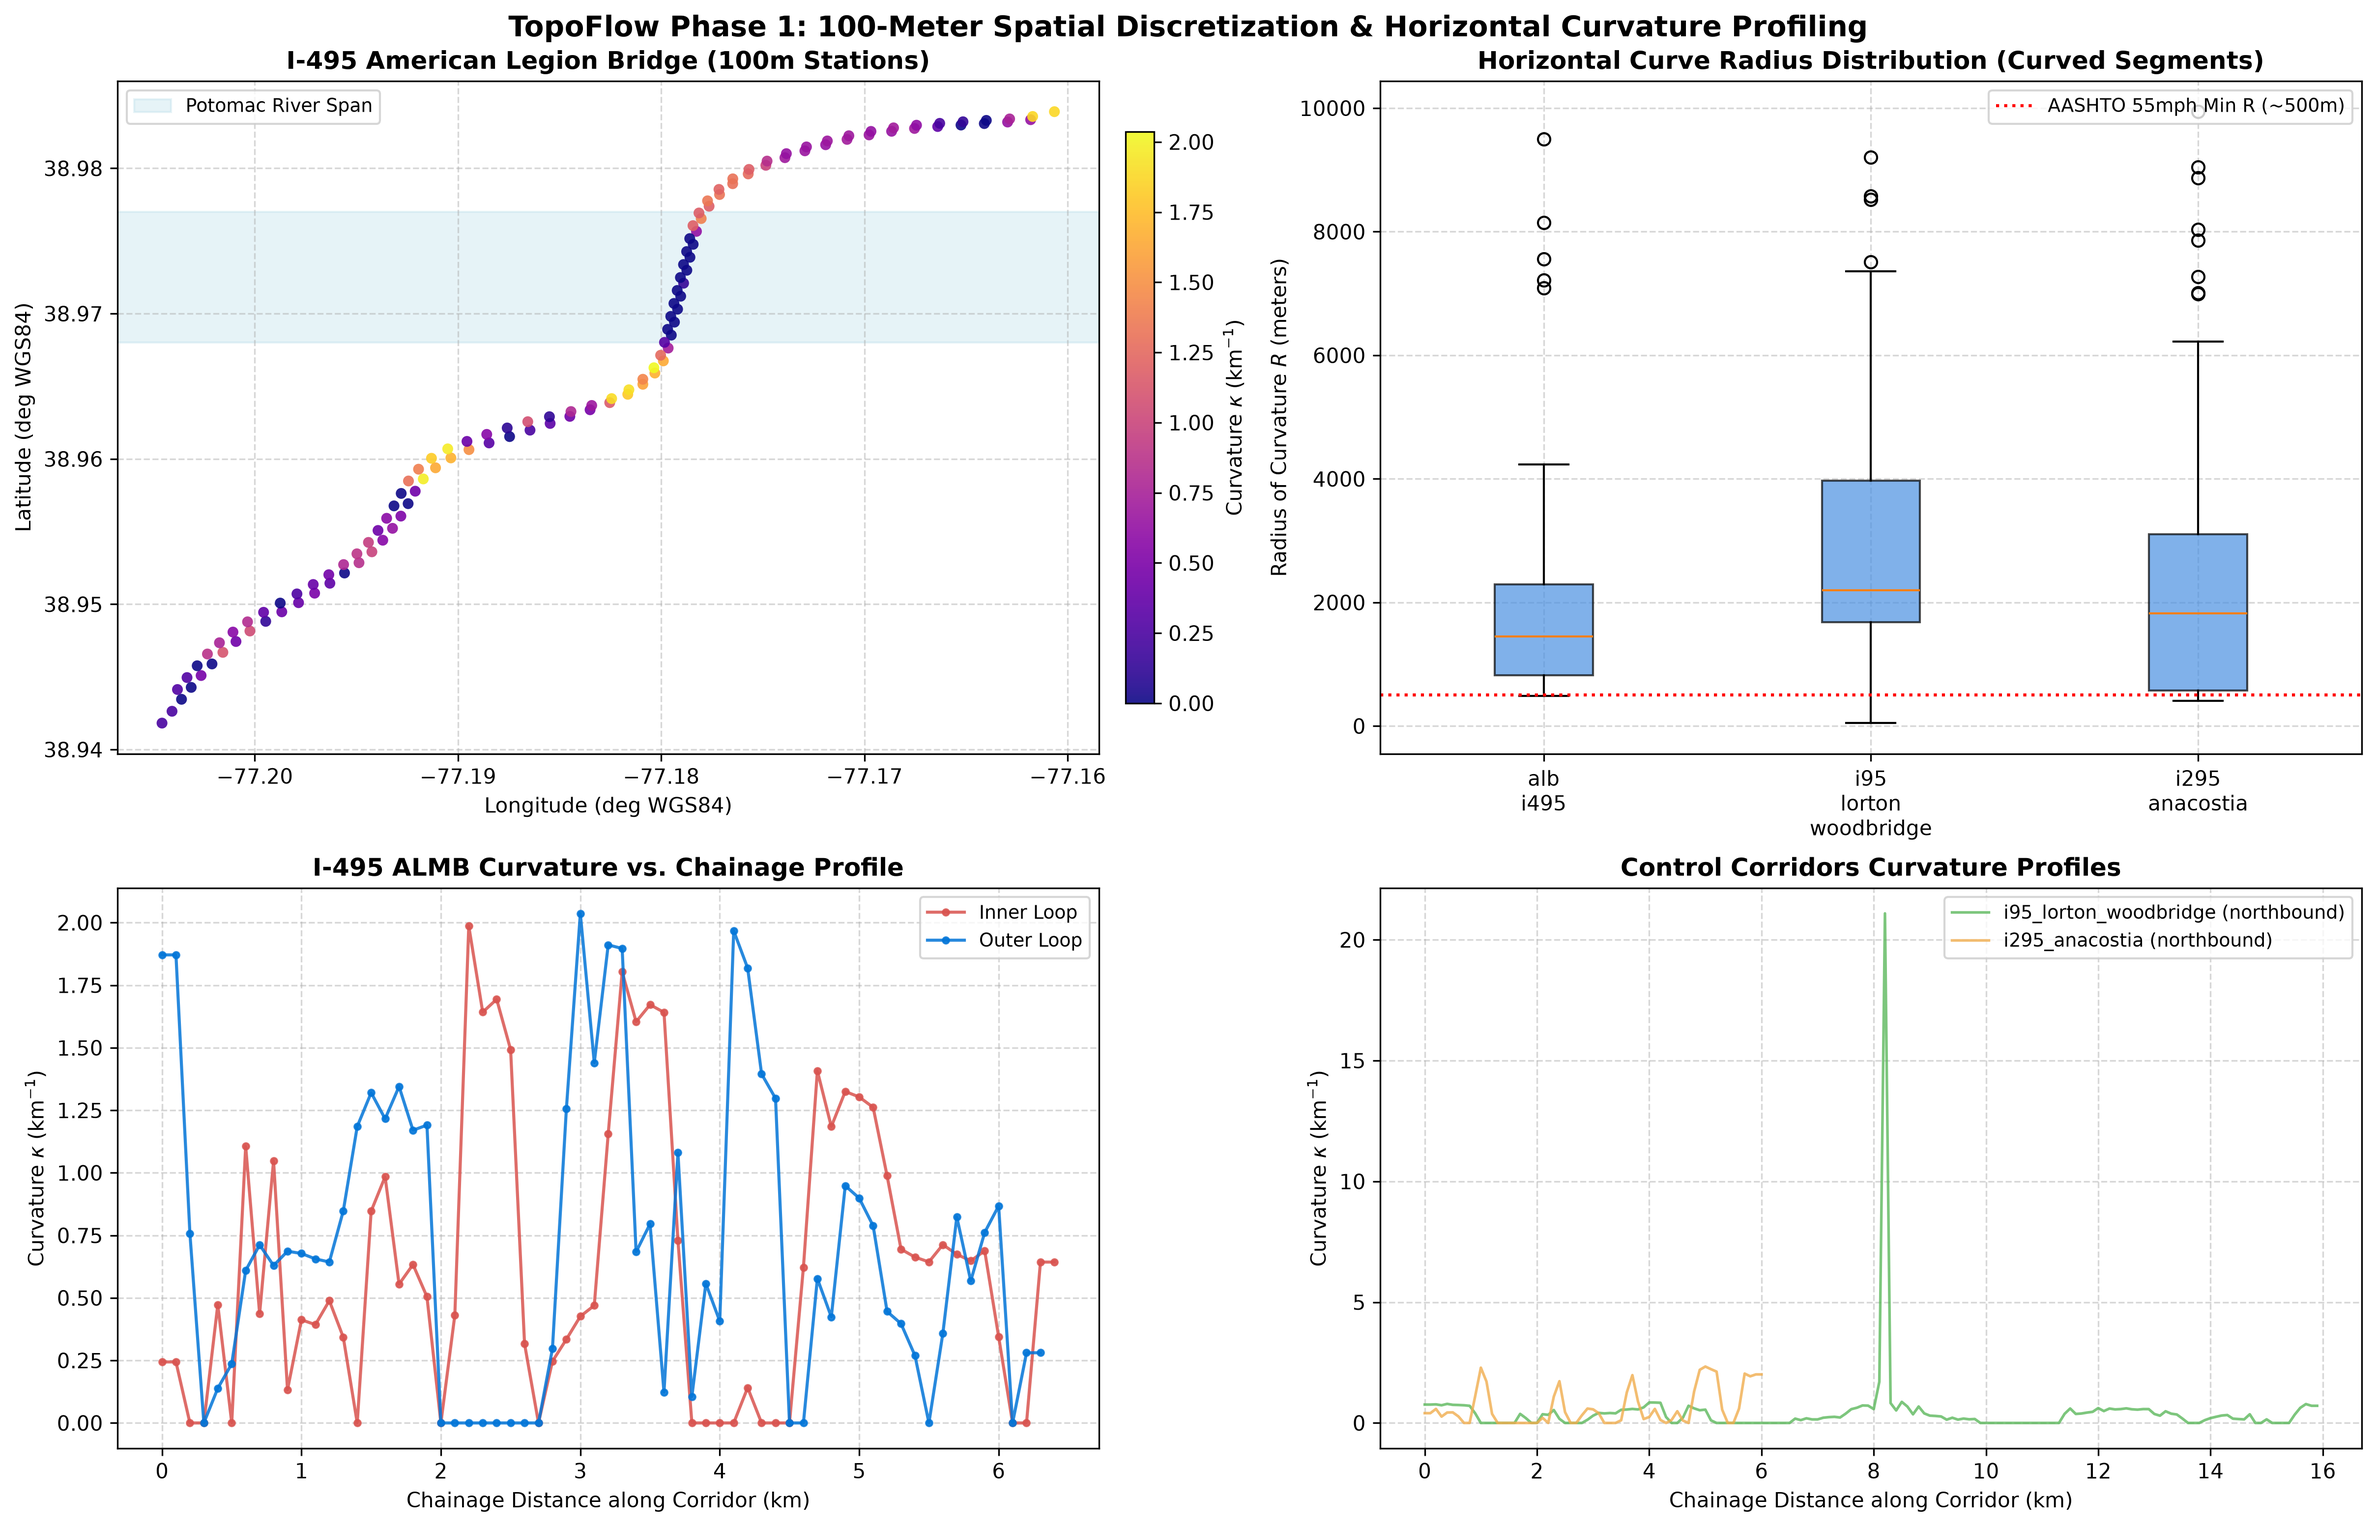
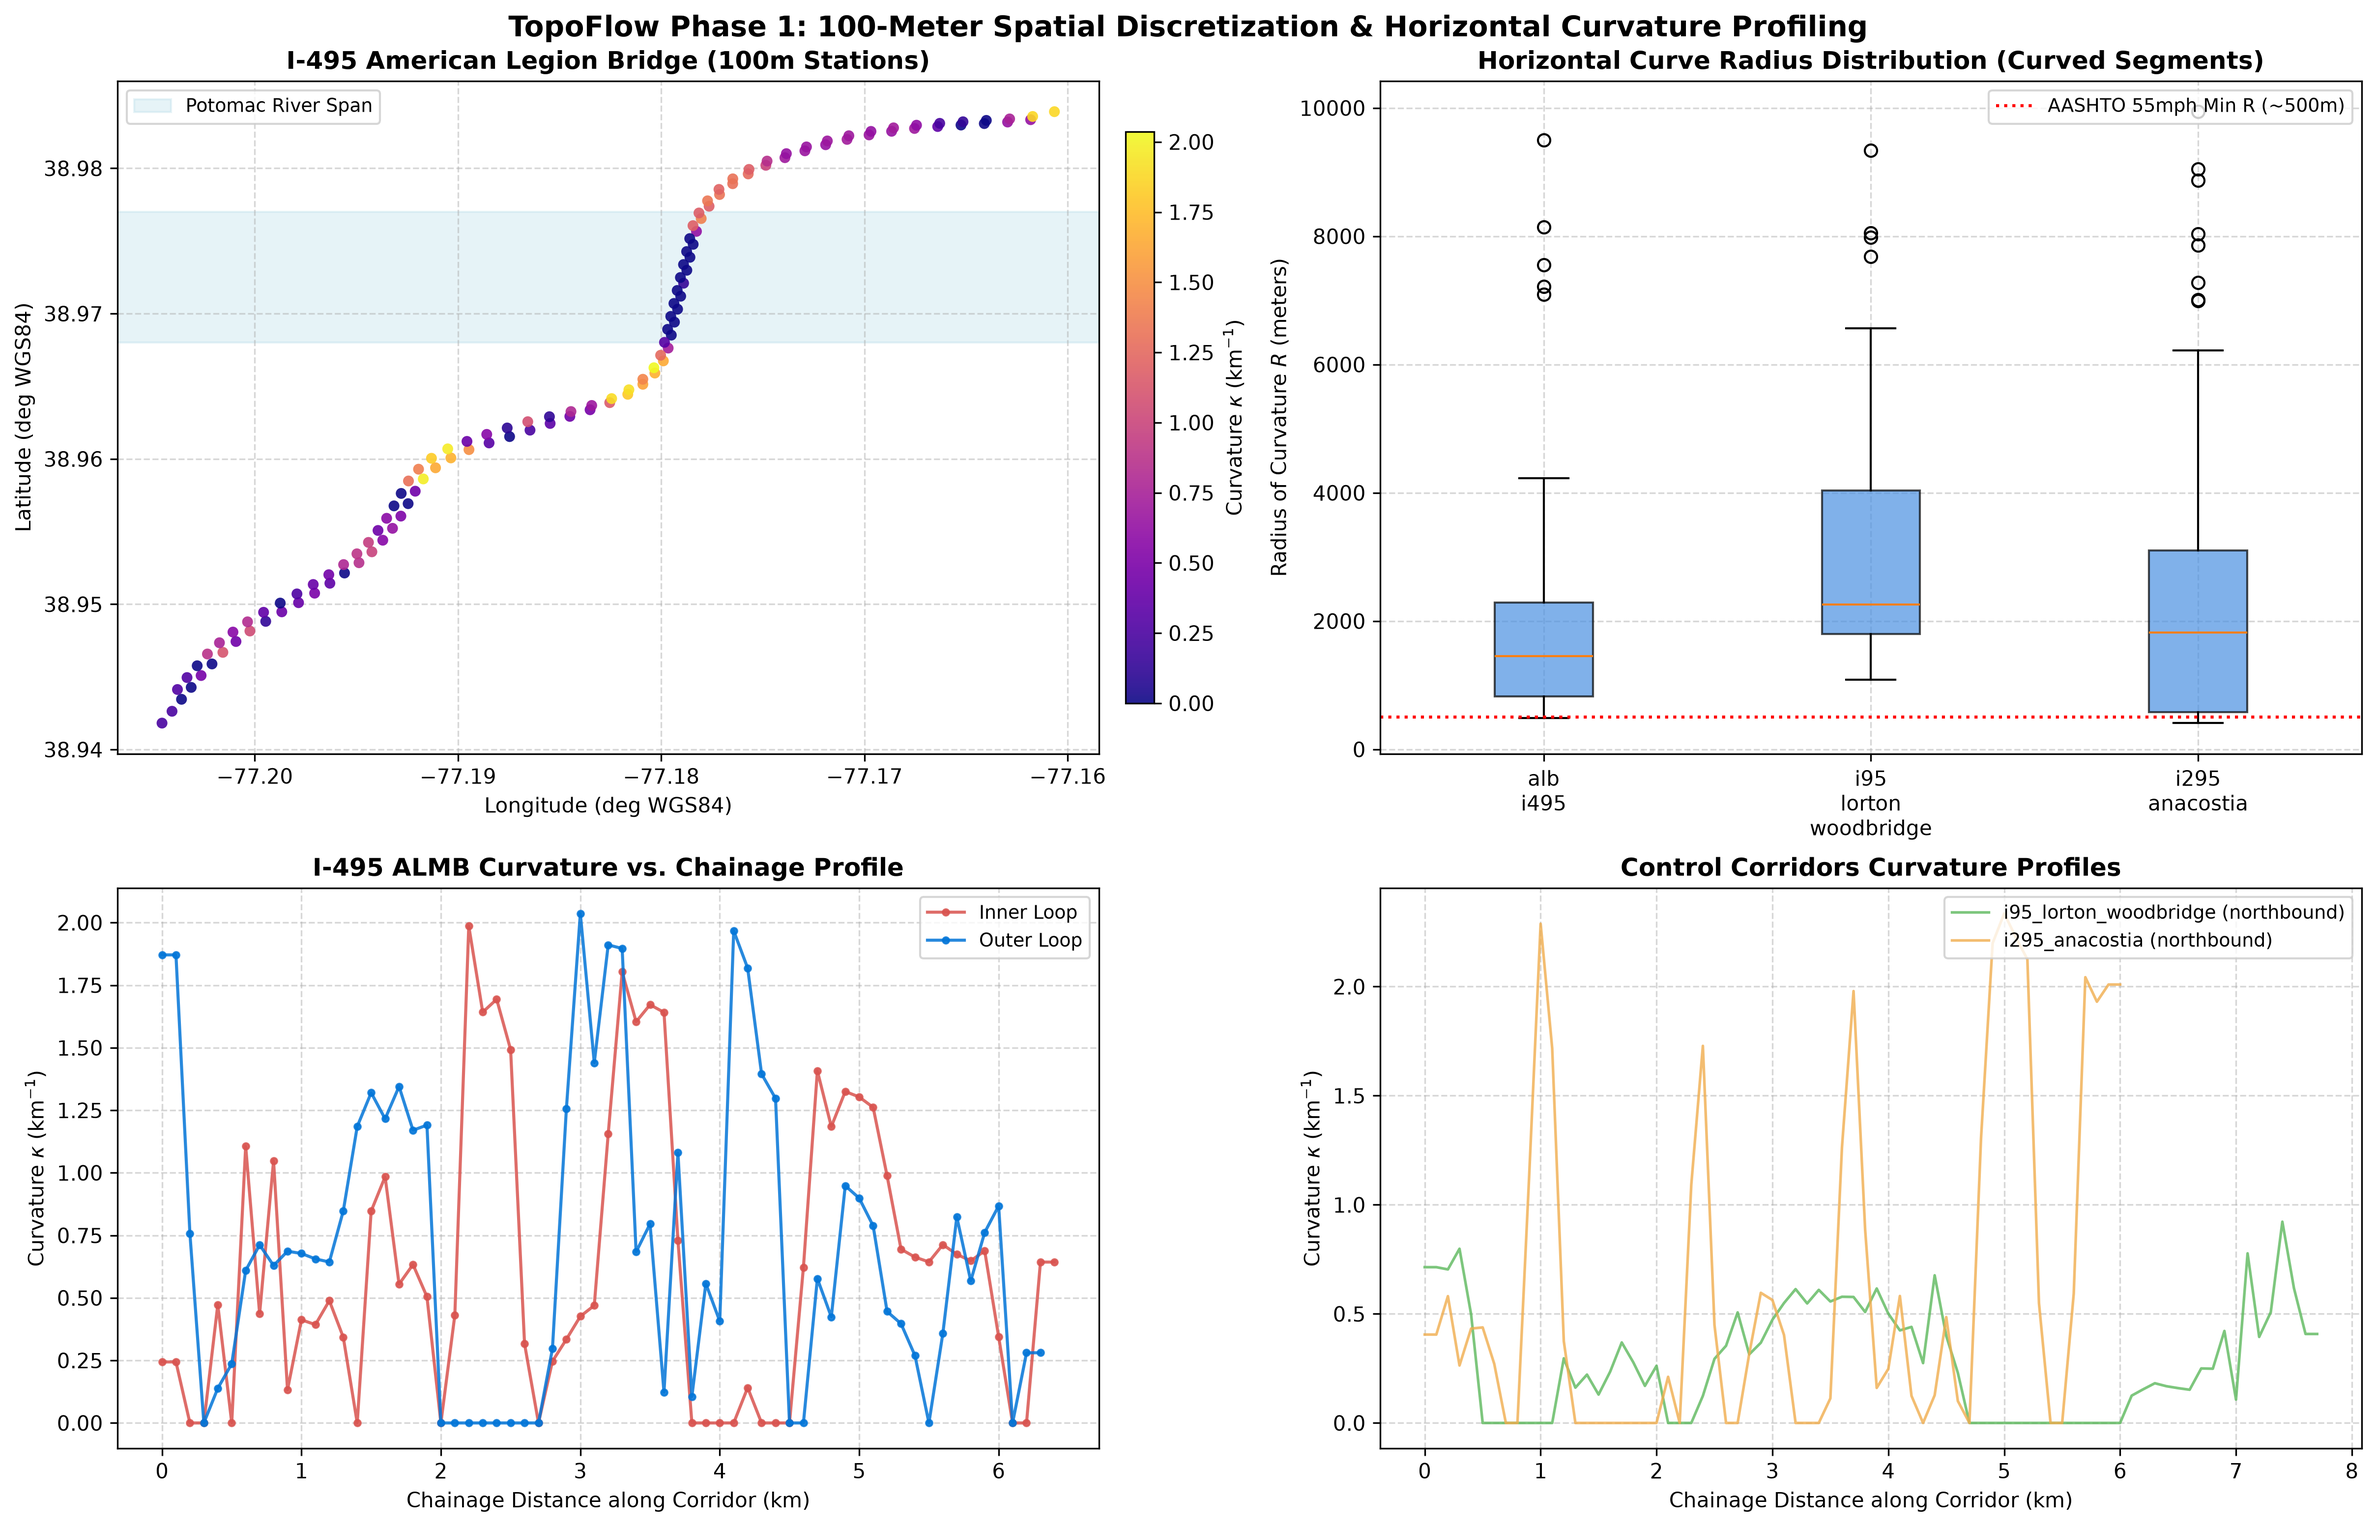
fix(geo): filter express lanes and prevent cross-median U-turns in carriageway stitcher (#3, #5)

diff --git a/src/topoflow/geo/osm_extractor.py b/src/topoflow/geo/osm_extractor.py
@@ -9,6 +9,8 @@ from __future__ import annotations
 
 import json
 import logging
+import math
+import re
 import time
 from pathlib import Path
 from typing import Any
@@ -226,6 +228,60 @@ def _classify_direction(
     return corridor.directions[0] if corridor.directions else None
 
 
+def _is_managed_or_express_lane(way: dict[str, Any]) -> bool:
+    """Check if an OSM way represents a managed, reversible, HOV, or express facility.
+
+    TopoFlow targets general-purpose highway carriageways. Managed and reversible express
+    lanes (e.g., '95 Express Lanes') have separate median-separated alignments and
+    reversible operations that must not be merged into general-purpose carriageway lines.
+
+    Args:
+        way: OSM way dictionary with 'tags'.
+
+    Returns:
+        True if the way represents an express/reversible/managed facility, False otherwise.
+    """
+    tags = way.get("tags", {})
+    if tags.get("oneway") == "reversible":
+        return True
+    if tags.get("express") in ("yes", "only"):
+        return True
+
+    name = tags.get("name", "")
+    if re.search(r"\b(express|hov|hot)\b", name, re.IGNORECASE):
+        return True
+
+    ref = tags.get("ref", "")
+    return bool(re.search(r"\b(express|hov|hot)\b", ref, re.IGNORECASE))
+
+
+def _is_deflection_acceptable(
+    v_incoming: tuple[float, float],
+    v_outgoing: tuple[float, float],
+    min_cos: float = 0.0,
+) -> bool:
+    """Check if deflection between incoming and outgoing segment vectors is within forward tolerance.
+
+    On a controlled-access interstate highway, consecutive way segments cannot make
+    an acute turnaround or U-turn across medians (interior angle > 90 deg, cos(theta) < 0).
+
+    Args:
+        v_incoming: Direction vector leading into the connection point (dx, dy).
+        v_outgoing: Direction vector leaving the connection point (dx, dy).
+        min_cos: Minimum cosine of deflection angle (defaults to 0.0, i.e. <= 90 deg).
+
+    Returns:
+        True if deflection angle is acceptable, False if it represents a U-turn/reversal.
+    """
+    dot = v_incoming[0] * v_outgoing[0] + v_incoming[1] * v_outgoing[1]
+    mag1 = math.hypot(v_incoming[0], v_incoming[1])
+    mag2 = math.hypot(v_outgoing[0], v_outgoing[1])
+    if mag1 <= 1e-9 or mag2 <= 1e-9:
+        return True
+    cos_theta = dot / (mag1 * mag2)
+    return cos_theta >= min_cos
+
+
 def _stitch_segments_to_linestring(
     segments: list[list[tuple[float, float]]],
     target_direction: str,
@@ -236,6 +292,7 @@ def _stitch_segments_to_linestring(
     Handles way reversal and chain connection. Validates that resulting LineString has
     zero breaks and is oriented along the intended direction of travel. Rejects gaps > 50m
     to prevent cross-median jumps (15-40m wide), interchange ramp leaps, or masking missing bridge spans.
+    Enforces a forward deflection angle constraint (<= 90 deg) preventing median U-turns.
 
     Args:
         segments: List of coordinate lists [(lon, lat), ...].
@@ -253,10 +310,11 @@ def _stitch_segments_to_linestring(
             f"No coordinate segments provided for direction '{target_direction}'"
         )
 
+    if any(len(seg) < 2 for seg in segments):
+        raise OSMTopologicalError("One or more coordinate segments contain fewer than 2 points.")
+
     if len(segments) == 1:
         coords = segments[0]
-        if len(coords) < 2:
-            raise OSMTopologicalError("Segment contains fewer than 2 coordinates.")
         line = LineString(coords)
         return _ensure_directional_bearing(line, target_direction)
 
@@ -264,9 +322,14 @@ def _stitch_segments_to_linestring(
     remaining = [list(seg) for seg in segments]
     stitched: list[tuple[float, float]] = remaining.pop(0)
 
+    max_gap_sq = max_gap_degrees**2
+
     while remaining:
         head = stitched[0]
         tail = stitched[-1]
+
+        v_tail_in = (tail[0] - stitched[-2][0], tail[1] - stitched[-2][1])
+        v_head_out = (stitched[1][0] - head[0], stitched[1][1] - head[1])
 
         best_match_idx = -1
         best_mode: str | None = None
@@ -276,31 +339,58 @@ def _stitch_segments_to_linestring(
             cand_head = candidate[0]
             cand_tail = candidate[-1]
 
+            cand_v_fwd = (candidate[1][0] - cand_head[0], candidate[1][1] - cand_head[1])
+            cand_v_rev = (candidate[-2][0] - cand_tail[0], candidate[-2][1] - cand_tail[1])
+
             # Distances: tail-to-head, tail-to-tail, head-to-tail, head-to-head
             d_tail_head = (tail[0] - cand_head[0]) ** 2 + (tail[1] - cand_head[1]) ** 2
             d_tail_tail = (tail[0] - cand_tail[0]) ** 2 + (tail[1] - cand_tail[1]) ** 2
             d_head_tail = (head[0] - cand_tail[0]) ** 2 + (head[1] - cand_tail[1]) ** 2
             d_head_head = (head[0] - cand_head[0]) ** 2 + (head[1] - cand_head[1]) ** 2
 
-            local_min = min(d_tail_head, d_tail_tail, d_head_tail, d_head_head)
-            if local_min < min_dist:
-                min_dist = local_min
-                best_match_idx = idx
-                if local_min == d_tail_head:
-                    best_mode = "append_normal"
-                elif local_min == d_tail_tail:
-                    best_mode = "append_reverse"
-                elif local_min == d_head_tail:
-                    best_mode = "prepend_normal"
-                else:
-                    best_mode = "prepend_reverse"
+            modes = [
+                (
+                    "append_normal",
+                    d_tail_head,
+                    _is_deflection_acceptable(v_tail_in, cand_v_fwd, min_cos=0.0),
+                ),
+                (
+                    "append_reverse",
+                    d_tail_tail,
+                    _is_deflection_acceptable(v_tail_in, cand_v_rev, min_cos=0.0),
+                ),
+                (
+                    "prepend_normal",
+                    d_head_tail,
+                    _is_deflection_acceptable(
+                        (-cand_v_rev[0], -cand_v_rev[1]),
+                        v_head_out,
+                        min_cos=0.0,
+                    ),
+                ),
+                (
+                    "prepend_reverse",
+                    d_head_head,
+                    _is_deflection_acceptable(
+                        (-cand_v_fwd[0], -cand_v_fwd[1]),
+                        v_head_out,
+                        min_cos=0.0,
+                    ),
+                ),
+            ]
+
+            for mode_name, dist_sq, is_angle_valid in modes:
+                if is_angle_valid and dist_sq < min_dist:
+                    min_dist = dist_sq
+                    best_match_idx = idx
+                    best_mode = mode_name
 
         if best_match_idx < 0:
             raise OSMTopologicalError(
                 f"Failed to find connecting segment in direction '{target_direction}'"
             )
 
-        if min_dist > (max_gap_degrees**2):
+        if min_dist > max_gap_sq:
             raise OSMTopologicalError(
                 f"Topological gap ({min_dist**0.5:.5f} deg) exceeds maximum tolerance "
                 f"({max_gap_degrees} deg) in direction '{target_direction}'"
@@ -417,9 +507,11 @@ class OSMExtractor:
                 f"No highway ways found for corridor '{corridor.corridor_id}'"
             )
 
-        # Group ways by direction
+        # Group ways by direction, excluding managed/express facilities
         directional_ways: dict[str, list[dict[str, Any]]] = {d: [] for d in corridor.directions}
         for way in ways:
+            if _is_managed_or_express_lane(way):
+                continue
             direction = _classify_direction(way, nodes, corridor)
             if direction and direction in directional_ways:
                 directional_ways[direction].append(way)

diff --git a/tests/unit/geo/test_osm_extractor.py b/tests/unit/geo/test_osm_extractor.py
@@ -23,6 +23,8 @@ from topoflow.geo.osm_extractor import (
     OSMQueryError,
     OSMTopologicalError,
     _classify_direction,
+    _is_deflection_acceptable,
+    _is_managed_or_express_lane,
     _stitch_segments_to_linestring,
     build_overpass_query,
     calculate_metric_length,
@@ -333,3 +335,76 @@ class TestNetworkResilienceAndRetries:
 
         with pytest.raises(OSMQueryError, match="missing 'elements'"):
             fetch_osm_data("dummy_query", timeout=5, max_retries=1)
+
+
+class TestManagedAndExpressLaneFiltering:
+    """Test identification and filtering of managed, express, and reversible lanes."""
+
+    def test_filter_reversible_oneway(self) -> None:
+        way = {"tags": {"oneway": "reversible", "ref": "I 95"}}
+        assert _is_managed_or_express_lane(way) is True
+
+    def test_filter_express_name(self) -> None:
+        way = {"tags": {"name": "95 Express Lanes", "ref": "I 95"}}
+        assert _is_managed_or_express_lane(way) is True
+
+    def test_filter_express_tag(self) -> None:
+        way = {"tags": {"express": "yes", "ref": "I 95"}}
+        assert _is_managed_or_express_lane(way) is True
+
+    def test_filter_hov_hot_tags(self) -> None:
+        way1 = {"tags": {"name": "I-95 HOV Lanes"}}
+        way2 = {"tags": {"name": "HOT Lanes"}}
+        assert _is_managed_or_express_lane(way1) is True
+        assert _is_managed_or_express_lane(way2) is True
+
+    def test_retain_general_purpose_lanes(self) -> None:
+        way = {
+            "tags": {
+                "name": "Henry G. Shirley Memorial Highway",
+                "ref": "I 95",
+                "oneway": "yes",
+                "highway": "motorway",
+            }
+        }
+        assert _is_managed_or_express_lane(way) is False
+
+
+class TestDeflectionAndUTurnGuards:
+    """Test geometric deflection checks preventing cross-median U-turns."""
+
+    def test_deflection_forward_aligned(self) -> None:
+        v_in = (10.0, 10.0)
+        v_out = (10.0, 12.0)
+        assert _is_deflection_acceptable(v_in, v_out, min_cos=0.0) is True
+
+    def test_deflection_opposing_u_turn_rejected(self) -> None:
+        v_in = (10.0, 10.0)  # Heading NE
+        v_out = (-10.0, -10.0)  # Heading SW (180 deg turnaround)
+        assert _is_deflection_acceptable(v_in, v_out, min_cos=0.0) is False
+
+    def test_stitch_rejects_antiparallel_u_turn_segment(self) -> None:
+        # seg1 runs north: (0, 0) -> (0, 1)
+        seg1 = [(0.0, 0.0), (0.0, 1.0)]
+        # seg2 runs south right beside seg1 across median: (0.0001, 1.0) -> (0.0001, 0.0)
+        # Even though distance between (0, 1) and (0.0001, 1) is tiny (< 50m),
+        # appending seg2 into a U-turn is rejected
+        seg2 = [(0.0001, 1.0), (0.0001, 0.0)]
+        with pytest.raises(OSMTopologicalError):
+            _stitch_segments_to_linestring([seg1, seg2], "northbound")
+
+    def test_prepend_reverse_valid(self) -> None:
+        # seg1 is northern half: (0, 1) -> (0, 2)
+        seg1 = [(0.0, 1.0), (0.0, 2.0)]
+        # seg2 is southern half digitized backwards: (0, 1) -> (0, 0)
+        # Prepending seg2 reversed yields (0, 0) -> (0, 1) -> (0, 2)
+        seg2 = [(0.0, 1.0), (0.0, 0.0)]
+        line = _stitch_segments_to_linestring([seg1, seg2], "northbound")
+        coords = list(line.coords)
+        assert len(coords) == 3
+        assert coords[0] == (0.0, 0.0)
+        assert coords[-1] == (0.0, 2.0)
+
+    def test_stitch_segment_fewer_than_two_coords_raises(self) -> None:
+        with pytest.raises(OSMTopologicalError, match="fewer than 2 points"):
+            _stitch_segments_to_linestring([[(0.0, 0.0)], [(0.0, 1.0), (0.0, 2.0)]], "northbound")
